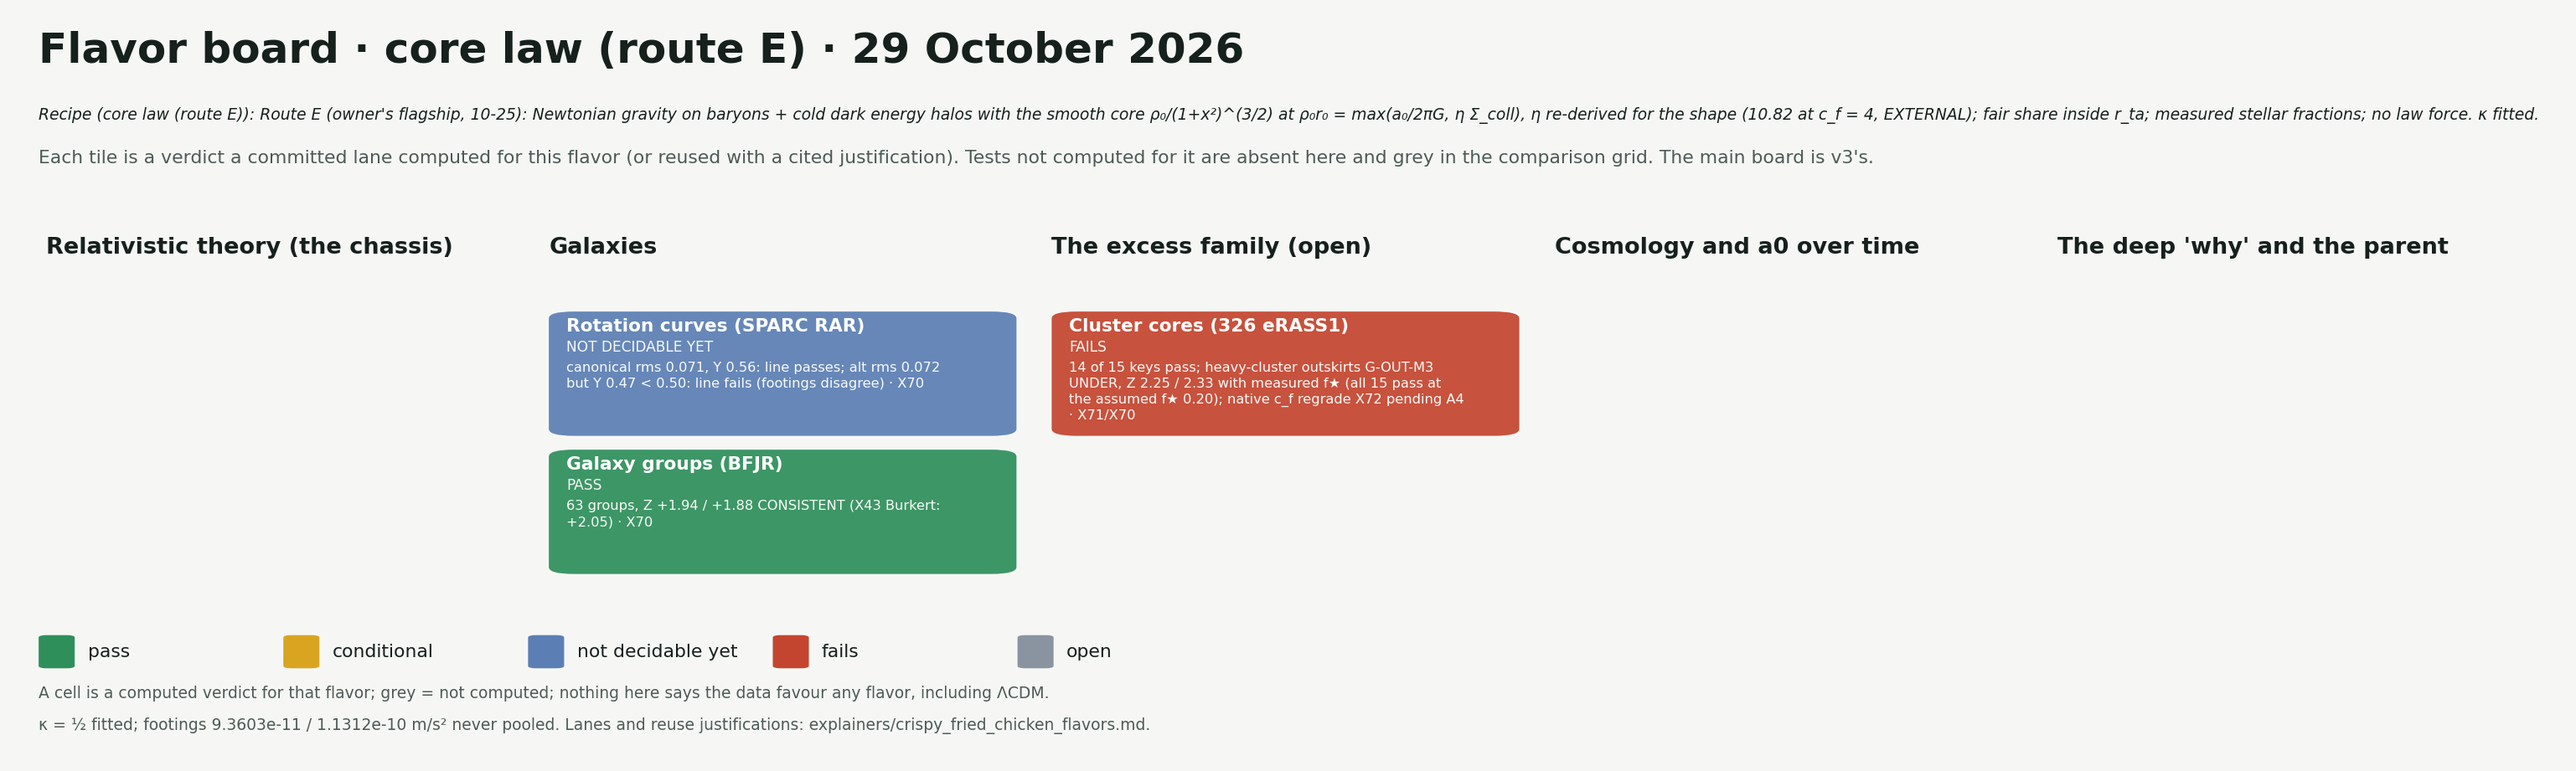
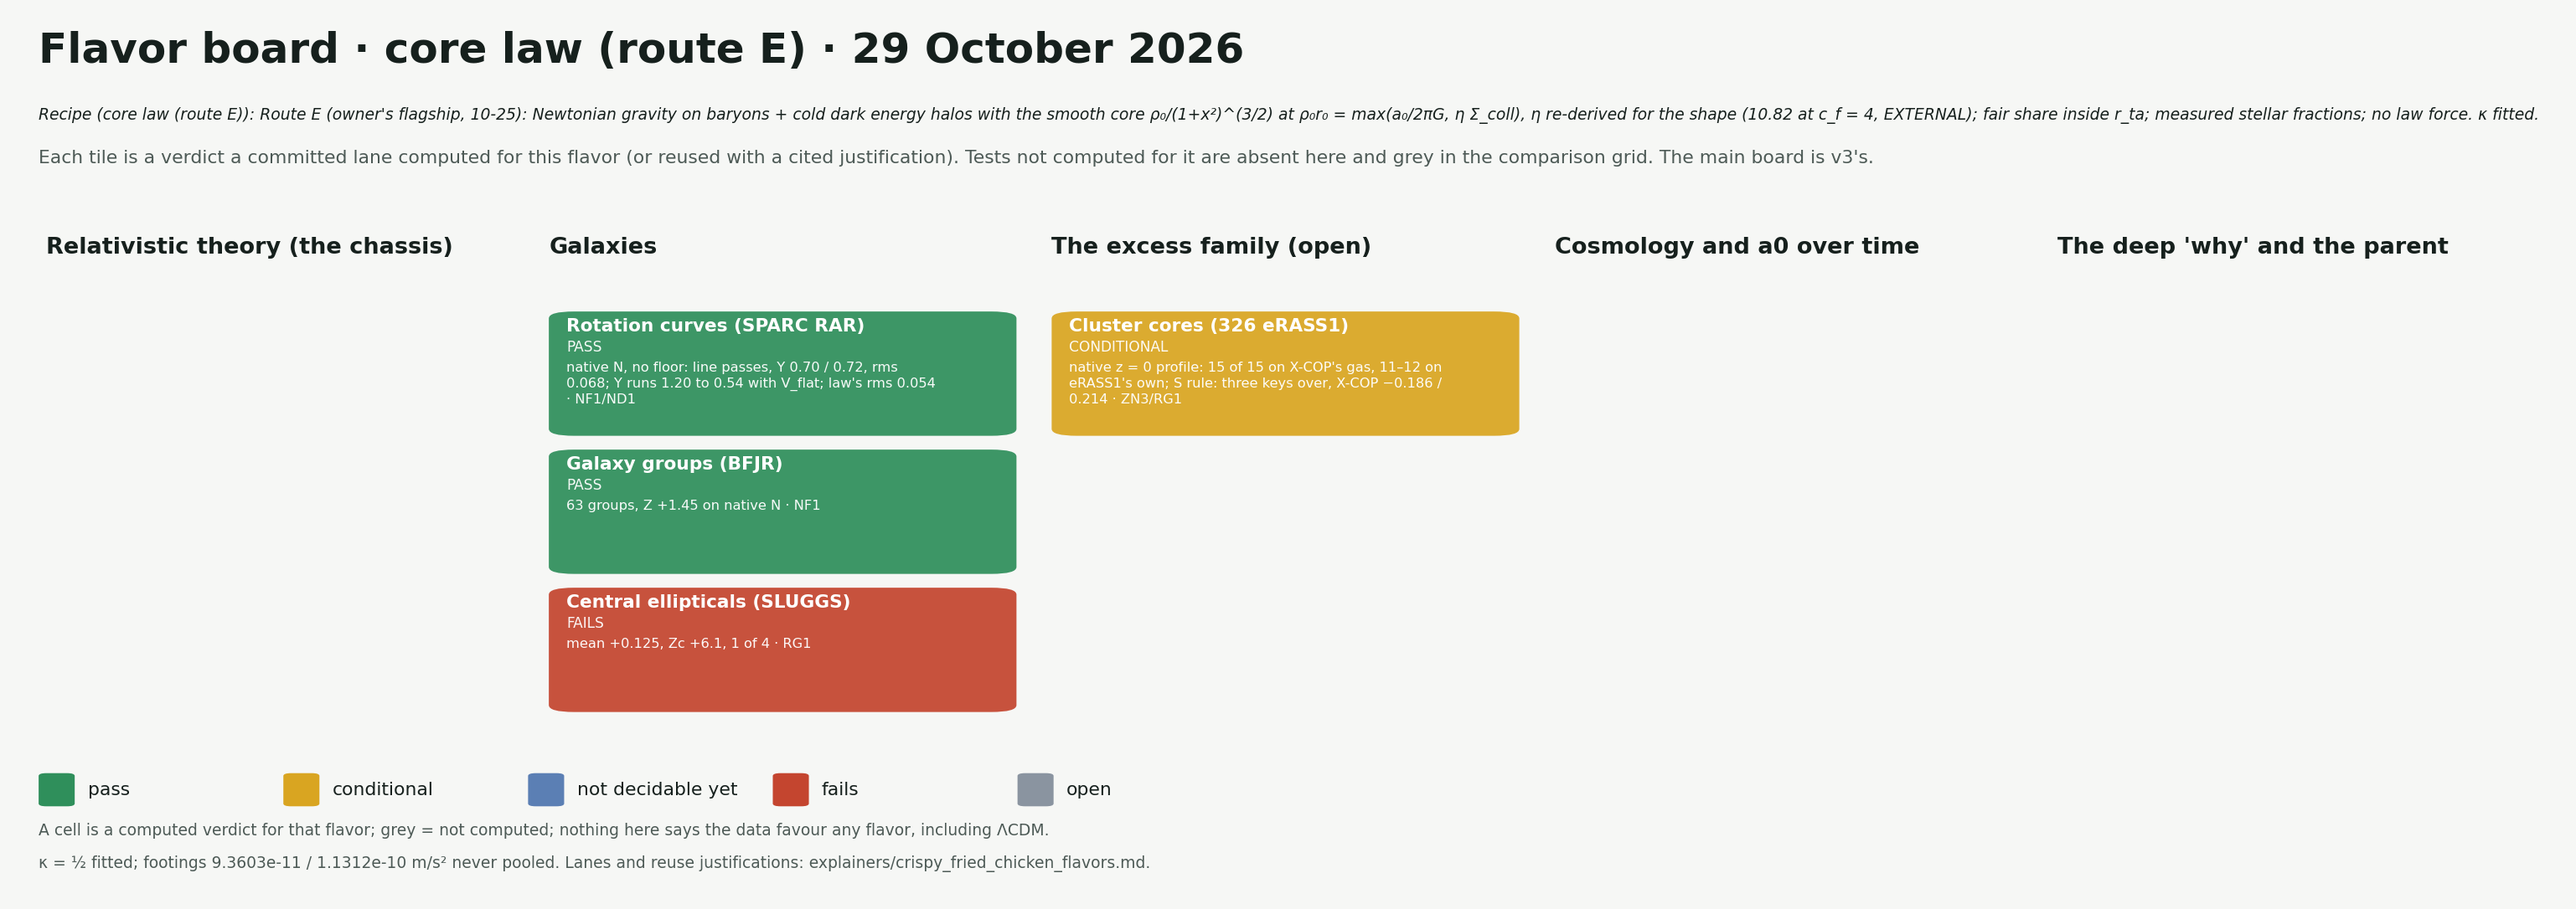
Core-law board on native version N: SPARC and groups pass, clusters conditional on ZN3's gas scale, SLUGGS fails; Local Group, LITTLE THINGS and Milky Way stated beside it. Main board stays v3s. kappa = 1/2 FITTED; not theory closed.

diff --git a/explainers/make_flavor_boards.py b/explainers/make_flavor_boards.py
@@ -204,6 +204,10 @@ L("Y1", {"pmedium"}, "rebuild_2026_10_22/Y1_pmedium_flavor/README.md:L1-L38 (Cod
 L("Q6", {"v3", "lcdm"}, R + "Q6_v3_class/README.md:L21, L131 (ΛCDM refit; DUST = ΛCDM)")
 L("X70", {"coreE"}, R + "X70_smooth_core_shape/README.md:L1-L11 (smooth core, η re-derived, f★ = 0.20)")
 L("X71", {"coreE"}, R + "X71_smooth_core_measured_fstar/README.md:L1-L13 (X70 with measured stellar fractions)")
+L("NF1", {"coreE"}, R + "NF1_no_floor_rule/README.md:L1-L14 (no floor); nf1_native_read.out (native N)")
+L("ND1", {"coreE"}, R + "ND1_native_dwarfs/README.md:L5-L25 (native N on SPARC, X80's ratios)")
+L("ZN3", {"coreE"}, R + "ZN3_native_shape_at_1e15/README.md:L1-L12 (native z = 0 profile)")
+L("RG1", {"coreE"}, R + "RG1_native_n_regrade/README.md:L1-L20 (native N regrade)")
 
 # ---------------------------------------------------------------------------------------------------------------------
 # What each lane itself concluded: (lane, flavor computed, row) -> (colour, file:line where the lane states it).
@@ -215,12 +219,12 @@ def V(lane, comp, row, st, where):
 
 
 # core law (route E): X70 (f★ 0.20) and X71 (measured f★); SPARC and groups do not use f★ (X71 README L13)
-V("X70", "coreE", "Rotation curves (SPARC RAR)", "UNDEC", R + "X70_smooth_core_shape/README.md:L9-L12 (canonical "
-  "passes; alt fails the line on Υ 0.47: footings disagree)")
-V("X70", "coreE", "Galaxy groups (BFJR)", "PASS", R + "X70_smooth_core_shape/README.md:L18 (Z +1.94 / +1.88 "
-  "CONSISTENT, both footings)")
-V("X71", "coreE", "Cluster cores (eRASS1 × KiDS)", "FAIL", R + "X71_smooth_core_measured_fstar/README.md:L7-L13 "
-  "(BREAKS: G-OUT-M3 UNDER, Z 2.25 / 2.33)")
+V("NF1", "coreE", "Rotation curves (SPARC RAR)", "PASS", R + "X80_low_mass_floor_emergence/README.md:L18 (native N, Υ 0.70 / 0.72; "
+  "no footing in the halo)")
+V("NF1", "coreE", "Galaxy groups (BFJR)", "PASS", R + "X80_low_mass_floor_emergence/README.md:L18 (groups Z +1.45)")
+V("ZN3", "coreE", "Cluster cores (eRASS1 × KiDS)", "COND", R + "ZN3_native_shape_at_1e15/README.md:L1-L12 (15 of 15 on X-COP's gas, "
+  "11-12 on eRASS1's; the S rule itself fails three keys, NF1)")
+V("RG1", "coreE", "Central ellipticals (SLUGGS)", "FAIL", R + "RG1_native_n_regrade/README.md:L1-L14 (+0.125, 1 of 4)")
 # v4
 V("H3", "v4", "Health: ghosts, gradients", "COND", TV3 + ":L26-L30")
 V("I1", "v4", "Well-posed (leaf / Cauchy problem)", "FAIL", R + "I1_gammaL_causality/README.md:L3-L14")
@@ -387,9 +391,8 @@ VERIFIED_GREEN_F = {
         "coordinator rerun identical; with U1 (54ee83e54e; coordinator rerun: main 15/16, A2 6/6)"),
     ("v3v", "Outer globular clusters"): ("O1", "ecbb964b0e", "coordinator rerun identical"),
     ("v3v", "Local a0 from MeerKAT"): ("P4", "6c0249a8bc", "coordinator rerun 2026-10-23: P4 identical except peak RSS"),
-    ("coreE", "Galaxy groups (BFJR)"): ("X70", "a9b3a43449",
-        "X71's f★ = 0.20 run reproduces X70 (cluster preds max |d| 0, 645c914b14) and X72's K1 reproduces X71's groups Z, "
-        "SPARC rms and cluster preds to 1e-9 (1a60d81204)"),
+    ("coreE", "Rotation curves (SPARC RAR)"): ("NF1", "a42ae32a01", "ND1 reruns native N with X80's ratios: Υ 0.70 / 0.72 (73805754b6)"),
+    ("coreE", "Galaxy groups (BFJR)"): ("NF1", "a42ae32a01", "nf1_native_read --check reproduces N0 grader output to 1e-9; K3 ΔZ = 0 for the floor at group masses"),
     ("lcdm", "Native CMB"): ("C2", "5e93769089",
         "the ΛCDM refit is reproduced independently by C7 K1 (README L161: 1003.48 vs C2's 1003.20) and Q6 "
         "(README L21: 1003.47)"),
@@ -643,13 +646,12 @@ CELLS = [
     C("pmedium", 3, "Linear growth", "PASS",
       "σ₈ / dust limit 0.9991 (from a = 1e-3), 0.967 (1e-4); a WDM-like cutoff at k ~ 1–6 h/Mpc is flagged", ["Y1"]),
     # ---------------- core law (route E, smooth core): X70 / X71 ----------------
-    C("coreE", 1, "Rotation curves (SPARC RAR)", "UNDEC",
-      "canonical rms 0.071, Υ 0.56: line passes; alt rms 0.072 but Υ 0.47 < 0.50: line fails (footings disagree)",
-      ["X70"]),
-    C("coreE", 1, "Galaxy groups (BFJR)", "PASS", "63 groups, Z +1.94 / +1.88 CONSISTENT (X43 Burkert: +2.05)", ["X70"]),
-    C("coreE", 2, "Cluster cores (326 eRASS1)", "FAIL",
-      "14 of 15 keys pass; heavy-cluster outskirts G-OUT-M3 UNDER, Z 2.25 / 2.33 with measured f★ (all 15 pass at the "
-      "assumed f★ 0.20); native c_f regrade X72 pending A4", ["X71", "X70"]),
+    C("coreE", 1, "Rotation curves (SPARC RAR)", "PASS",
+      "native N, no floor: line passes, Υ 0.70 / 0.72, rms 0.068; Υ runs 1.20 to 0.54 with V_flat; law's rms 0.054", ["NF1", "ND1"]),
+    C("coreE", 1, "Galaxy groups (BFJR)", "PASS", "63 groups, Z +1.45 on native N", ["NF1"]),
+    C("coreE", 2, "Cluster cores (326 eRASS1)", "COND",
+      "native z = 0 profile: 15 of 15 on X-COP's gas, 11–12 on eRASS1's own; S rule: three keys over, X-COP −0.186 / 0.214", ["ZN3", "RG1"]),
+    C("coreE", 1, "Central ellipticals (SLUGGS)", "FAIL", "mean +0.125, Zc +6.1, 1 of 4", ["RG1"]),
 ]
 
 

diff --git a/explainers/crispy_fried_chicken_flavors.md b/explainers/crispy_fried_chicken_flavors.md
@@ -16,7 +16,7 @@ Boards: [v4](img/status_board_v4.png) · [canonical rules](img/status_board_cano
 | plain MOND | AQUAL with μ = x/(1+x) on baryons, external-field effect included; no screening, no dust, no cosmology; κ = ½ fitted. |
 | ΛCDM | GR + Λ + cold dark matter particles (6 fitted cosmological parameters; halos from simulations). It has a dark-matter particle, which this framework's owner rules out for the framework itself; a reference only. |
 | P-medium (Codex) | Newtonian Poisson on baryons + a cold particle medium that also feels a saturating polarization P and a stiffening scalar χ (Codex's reduced preferred-frame action); ℓ₀ = 0.44 kpc fitted to growth. |
-| core law (route E) | Route E (the owner's 10-25 flagship): Newtonian gravity on baryons + cold dark energy halos with the smooth core ρ₀/(1+x²)^(3/2) at ρ₀r₀ = max(a₀/2πG, η Σ_coll), η re-derived for the shape (10.82 at c_f = 4, EXTERNAL); fair share inside r_ta; measured stellar fractions; no law force. κ fitted. |
+| core law (route E) | Route E (the owner's 10-25 flagship): Newtonian gravity on baryons + cold dark energy halos with the smooth core ρ₀/(1+x²)^(3/2) at ρ₀r₀ = f_c η Σ_coll with native η, no a₀ floor (owner, 10-31); fair share inside r_ta; no law force. κ fitted in the a₀ law only. |
 | v3v (velocity-screened, no γ_L) | Literal Blanchet–Skordis Khronon (J_x, BS K(Q) dust) + covector P, with NO γ_L stiffness. Moving subsystems hold phantom only within 2GM_b/V² (velocity screening). κ fitted; no L★. |
 
 ΛCDM is a reference column only. It has a dark-matter particle, which this framework's owner rules out for the framework itself.
@@ -45,7 +45,7 @@ The grid has 50 rows.
 | ΛCDM | 1 | 4 | 0 | 0 | 0 | 0 | 45 |
 | P-medium (Codex) | 3 | 2 | 0 | 0 | 0 | 7 | 38 |
 | v3v (velocity-screened, no γ_L) | 3 | 4 | 7 | 0 | 1 | 0 | 35 |
-| core law (route E) | 1 | 0 | 1 | 1 | 0 | 0 | 47 |
+| core law (route E) | 2 | 1 | 1 | 0 | 0 | 0 | 46 |
 
 ## v4
 
@@ -244,28 +244,25 @@ The grid has 50 rows.
 - **v3v (velocity-screened, no γ_L).** Its own cells come from O1 §3 (ecbb964b0e) with H4 and H5. A reused v3 verdict needs a cited line showing γ_L does not enter (the guard requires it). Grey: groups (O1 L112: members DEPEND on whether the group's khronon is held); the strong-field rows (P3's regular holes and strong coupling depend on L★; only the static exterior, P3 L25, is γ_L-free); lensing, SLUGGS, high-z and the rest, which were never shown to be γ_L-free. BBN (Q6, γ_L-free per Q6 L172) has no grid row, because the main board refused that tile. Outer globulars take O1's own class (PASS, PROXY speeds); Cassini is drawn conditional because O1 calls it an estimate.
 - **Canonical rules, CFG960.** It is counted under the canonical rules, as the coordinator classed it; N0 labels it the SCT-M engine (domains, conversion of cold energy into phantom bodies, census baryons; AUDIT L52-L53, L116).
 
-## core law (route E) (added 29 October 2026)
+## core law (route E) (added 29 October 2026; rule changed 31 October)
 
-**Recipe:** Route E, the owner's 25 October flagship: Newtonian gravity on baryons plus cold dark energy halos.
-- **Halo shape:** the smooth core ρ₀/(1+x²)^(3/2).
-- **Owner decision 10-31: floor removed; see `rebuild_2026_10_22/OWNER_DECISION_2026-10-31_NO_FLOOR.md`. Earlier rule:**
-- **Core rule:** ρ₀r₀ = max(a₀/2πG, η Σ_coll), with η re-derived for the shape (10.82 at c_f = 4, EXTERNAL).
+**Recipe:** Route E, the owner's 25 October flagship, without the a₀ floor (owner decision 31 October): Newtonian gravity on baryons plus cold dark energy halos.
+- **Halo shape:** the smooth core ρ₀/(1+x²)^(3/2), chosen by hand. Native zooms make cusps.
+- **Core rule:** ρ₀r₀ = f_c η Σ_coll at every mass, with native η. No a₀ and no footing in the halo. κ remains fitted in the a₀ law.
 - **Normalization:** fair share inside r_ta.
-- **Stars:** measured stellar fractions.
-- **No law force.** κ fitted.
+- **No law force.**
 
 ![core law board](img/status_board_core_law.png)
 
-Only three rows are computed for this flavor; every other row is grey.
+Only four rows are computed for this flavor; every other row is grey. **Results outside these rows:** Local Group 0 of 5 classes (floor had 4 of 5), LITTLE THINGS short by +0.138, Milky Way wide priors only (RG1, ND1).
 
 | row | colour | lane | why |
 |---|---|---|---|
-| Rotation curves (SPARC RAR) | not decidable | X70 (README L9–L12) | canonical passes the line (rms 0.071, Υ 0.56); alt has rms 0.072 but Υ 0.47 < 0.50 — the footings disagree. SPARC does not use f★. |
-| Galaxy groups (BFJR) | pass | X70 (README L18) | 63 groups, Z +1.94 / +1.88 CONSISTENT. Green verified: X71's f★ = 0.20 run reproduces X70 (645c914b14), and X72's K1 reproduces X71's groups Z to 1e-9 (1a60d81204). |
-| Cluster cores (eRASS1 × KiDS) | fails | X71 (README L7–L13) | with measured f★, 14 of 15 keys pass. G-OUT-M3 (heavy-cluster outskirts) is UNDER at Z 2.25 / 2.33. All 15 pass at the assumed f★ = 0.20 (X70). |
+| Rotation curves (SPARC RAR) | pass | NF1, X80, ND1 | native N passes the line, Υ 0.70 / 0.72, rms 0.068. Υ runs 1.20 to 0.54 with V_flat; the law's rms is 0.054. |
+| Galaxy groups (BFJR) | pass | NF1, X80 | 63 groups, Z +1.45. |
+| Cluster cores (eRASS1 × KiDS) | conditional | ZN3, RG1 | the native z = 0 profile passes 15 of 15 on X-COP's gas and 11–12 on eRASS1's own. The S rule over-predicts three keys, and X-COP at −0.186 / 0.214. |
+| Central ellipticals (SLUGGS) | fails | RG1 | mean +0.125, Zc +6.1, 1 of 4 cleared. |
 
-- **Pending:** X72 (frozen ba337e221c), the regrade with native c_f from the X48 A4 zooms.
-- **Closed routes for this flavor's floor:** X47, X65–X68 and the phantom ceiling, in `rebuild_2026_10_22/X65_X67_POSTMORTEM.md`.
 - **Not a main board.** The main board stays v3s. Moving the main board to route E would mean recomputing every tile for it (owner rule 10-23), and that is the owner's call.
 
 ---
